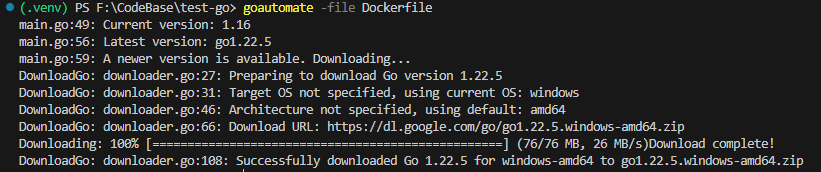
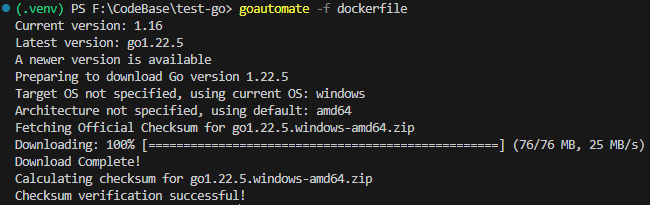
docs: update readme

Changed region(s): [[0.0, 0.0, 1.0, 0.9884]]

diff --git a/README.md b/README.md
@@ -1,4 +1,4 @@
-# GoAutomate
+# GoAutomate🐿
 
 [![Release](https://github.com/Nicconike/goautomate/actions/workflows/release.yml/badge.svg)](https://github.com/Nicconike/goautomate/actions/workflows/release.yml)
 [![Code Coverage](https://github.com/Nicconike/goautomate/actions/workflows/coverage.yml/badge.svg)](https://github.com/Nicconike/goautomate/actions/workflows/coverage.yml)
@@ -32,10 +32,15 @@ go install github.com/Nicconike/goautomate/cmd/goautomate@latest
 ### Basic Usage
 
 ```sh
-goautomate -file <path-to-file>
+goautomate -file <path-to-file> -os <target-os> -arch <target-arch>
 ```
 
 This will check the specified file for the current Go version, compare it with the latest available version, and download the new version if an update is available.
+
+> [!NOTE]
+> If you don't specify the `os` and `arch` type, the tool will download the latest version for your current operating system and architecture.
+>
+> Minimum required Go version: 1.15
 
 ### Command-line Options
 
@@ -48,25 +53,25 @@ This will check the specified file for the current Go version, compare it with t
 
 1. Get version from a Dockerfile:
 	```sh
-	goautomate -file Dockerfile
+	goautomate -f Dockerfile
 	```
 	![Dockerfile Example](https://github.com/Nicconike/goautomate/blob/master/assets/dockerfile_example.png)
 
 2. Get version from go.mod:
 	```sh
-	goautomate -file go.mod
+	goautomate -f go.mod
 	```
 	![Go Mod Example](https://github.com/Nicconike/goautomate/blob/master/assets/gomod_example.png)
 
 3. Specify version directly:
 	```sh
-	goautomate -version 1.16.5
+	goautomate -v 1.17
 	```
 	![Direct Example](https://github.com/Nicconike/goautomate/blob/master/assets/direct_example.png)
 
 4. Download for a specific OS and architecture:
 	```sh
-	goautomate -file version.json -os linux -arch arm64
+	goautomate -f version.json -os linux -arch arm64
 	```
 	![JSON Example with OS](https://github.com/Nicconike/goautomate/blob/master/assets/json_example_os_arch.png)
 
@@ -79,7 +84,7 @@ This will check the specified file for the current Go version, compare it with t
 - JSON configuration files
 - Plain text files with version information
 
-The tool uses various patterns to detect Go versions, making it flexible for different project setups.
+The tool uses various regex patterns to detect Go versions, making it flexible for different project setups.
 
 Missing any file types you expected to see? Let me know via [discussions](https://github.com/Nicconike/goautomate/discussions) or [discord server](https://discord.gg/UbetHfu).
 

diff --git a/CHANGELOG.md b/CHANGELOG.md
@@ -4,3 +4,107 @@ All notable changes to this project will be documented in this file.
 
 The format is based on [Keep a Changelog](https://keepachangelog.com/en/1.1.0/),
 and this project adheres to [Semantic Versioning](https://semver.org/spec/v2.0.0.html) and [Conventional Commits](https://www.conventionalcommits.org/en/v1.0.0/).
+
+
+## v1.1.0 (2024-07-16)
+
+#### 🎁 Feature
+
+* Add checksum verification (5884a154)
+
+#### 🔁 CI
+
+* run goreleaser only if new release (9485e929)
+* use v2 for goreleaser action (7b8a72c3)
+* use v6 for goreleaser (25591d36)
+* update release workflow (88c916ab)
+* update release workflow (4d6686b1)
+
+
+## v1.0.6 (2024-07-08)
+
+#### 🐞 Bug Fixes
+
+* Use goreleaser for publishing (8fa9fc1c)
+
+#### 📄 Documentation
+
+* update readme (a0e882be)
+* update readme (f0707053)
+
+#### 🚧 Chores
+
+* **deps:** bump codecov/codecov-action from 4.0.1 to 4.5.0 (#1) (4ec78448)
+
+
+## v1.0.5 (2024-07-08)
+
+#### 🐞 Bug Fixes
+
+* Remove sem-rel config (ad86fbb0)
+
+#### 🔁 CI
+
+* update workflow (0bacbbeb)
+
+
+## v1.0.4 (2024-07-08)
+
+#### 🐞 Bug Fixes
+
+* Min req set to go1.15 (6122c5d1)
+
+#### 📄 Documentation
+
+* Add issue templates (5ea945cb)
+
+#### 🔎 Tests
+
+* Add codecov for downloader.go (c86aa3b7)
+
+#### 🔁 CI
+
+* correct publish step (9ee10fd2)
+* Improved codecov for pkg (f08e6459)
+
+
+## v1.0.3 (2024-07-06)
+
+#### Bug Fixes
+
+* correct regex patterns in config.go (28235f5d)
+
+#### CI
+
+* fix codecov workflow (f3e43a26)
+* update codecov workflow (5a1453a8)
+* update codecov (c9325dcc)
+
+
+## v1.0.2 (2024-07-06)
+
+#### Bug Fixes
+
+* update main script and pkg (ba5c3c8f)
+
+#### Chores
+
+* update sem-rel (d0b7a490)
+
+
+## v1.0.1 (2024-07-05)
+
+#### Bug Fixes
+
+* sem release plugin (27280f95)
+
+
+## v1.0.0 (2024-07-05)
+
+#### Chores
+
+* Add code for goautomate (da3146c3)
+
+#### CI
+
+* Update release workflow (5e897b15)
